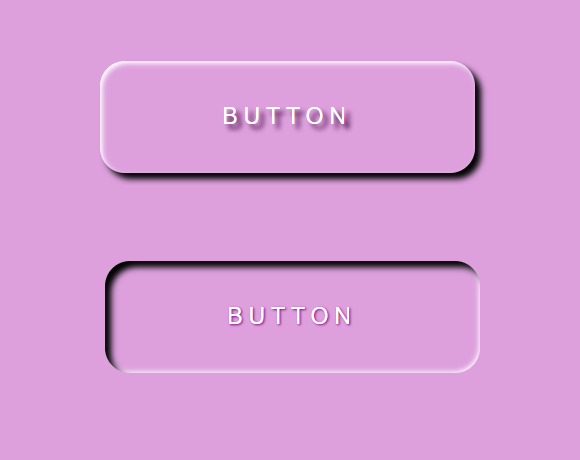
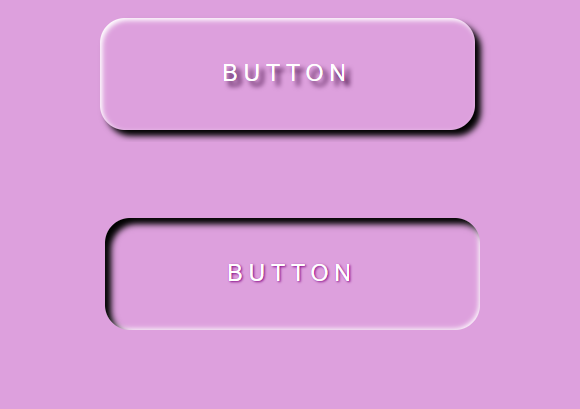
Completed card

diff --git a/css/style.css b/css/style.css
@@ -9,7 +9,7 @@ body {
     display: flex;
     flex-direction: column;
     align-items: center;
-    padding: 100px;
+    padding-top: 100px;
 }
 
 img {
@@ -17,14 +17,14 @@ img {
     height: auto;
 }
 
-/* Button */
+/* 1 */
 
 .button_div{
     width: 580px;
-    height: 180px;
+    height: 250px;
     background-color: #dda0dd;
     display: flex;
-    align-items: top;
+    align-items: center;
     justify-content: center;
 }
 
@@ -37,13 +37,13 @@ img {
     width: 375px;
     border: none;
     border-radius: 24px;
-    box-shadow: 6px 6px 6px rgba(0, 0, 0, 1), inset 3px 3px 4px rgba(255, 255, 255, 0.7);
+    box-shadow: 6px 6px 6px rgba(0, 0, 0, 1), inset 3px 3px 4px rgba(255, 255, 255, 0.9);
     /* text-shadow: 5px 5px 5px rgba(0, 0, 0, 1); */
     text-shadow: 2px 2px 2px rgba(0, 0, 0, 0.5);
 }
 
 .raised_button:active {
-    box-shadow: inset 6px 6px 6px rgba(0, 0, 0, 1), inset -3px -3px 3px rgba(255, 255, 255, 0.5);
+    box-shadow: inset 6px 6px 6px rgba(0, 0, 0, 1), inset -3px -3px 3px rgba(255, 255, 255, 0.6);
     /* text-shadow: 2px 2px 2px rgba(0, 0, 0, 0.5); */
     text-shadow: 5px 5px 5px rgba(0, 0, 0, 1);
 }
@@ -53,3 +53,34 @@ img {
 ასე ბევრად უკეთესი ეფექტია ჩემი აზრით.
 
 ტექსტი რჩება თითქოს და ფონი ჩადის.*/
+
+/* 2 */
+
+.card_div_outer{
+    width: 580px;
+    background: white;
+    display: flex;
+    align-items: center;
+    justify-content: center;
+    padding-bottom: 50px;
+}
+.card_div_inner{
+    display: flex;
+    flex-direction: column;
+    align-items: center;
+    justify-content: center;
+    padding: 38px;
+    border-radius: 25px;
+}
+.card_div_inner:hover{
+    transition: box-shadow 1s;
+    box-shadow: 10px 0 15px rgba(64, 192, 64, 0.5),
+    0 10px 10px rgba(64, 192, 64, 0.5),
+    -10px 0 10px rgba(64, 192, 64, 0.5),
+    0 -10px 10px rgba(64, 192, 64, 0.5);
+}
+.card_div_inner:hover :first-child{
+    transition: border-radius 1s;
+    border-top-left-radius: 25px;
+    border-top-right-radius: 25px;
+}

diff --git a/index.html b/index.html
@@ -9,11 +9,23 @@
 </head>
 <body>
     <div class="container">
-        <!-- Button -->
-        <img src="images/game.png" alt="">
-        <img src="images/button.png" alt="">
+
+        <!-- 1 -->
+
+        <img src="images/game.png">
         <div class="button_div">
             <button class="raised_button">BUTTON</button>
+        </div>
+        <img src="images/button.png">
+
+        <!-- 2 -->
+
+        <img src="images/dog_card.png">
+        <div class="card_div_outer">
+            <div class="card_div_inner">
+                <img src="images/dog.png">
+                <img src="images/dog_text.png">
+            </div>
         </div>
     </div>
 </body>
